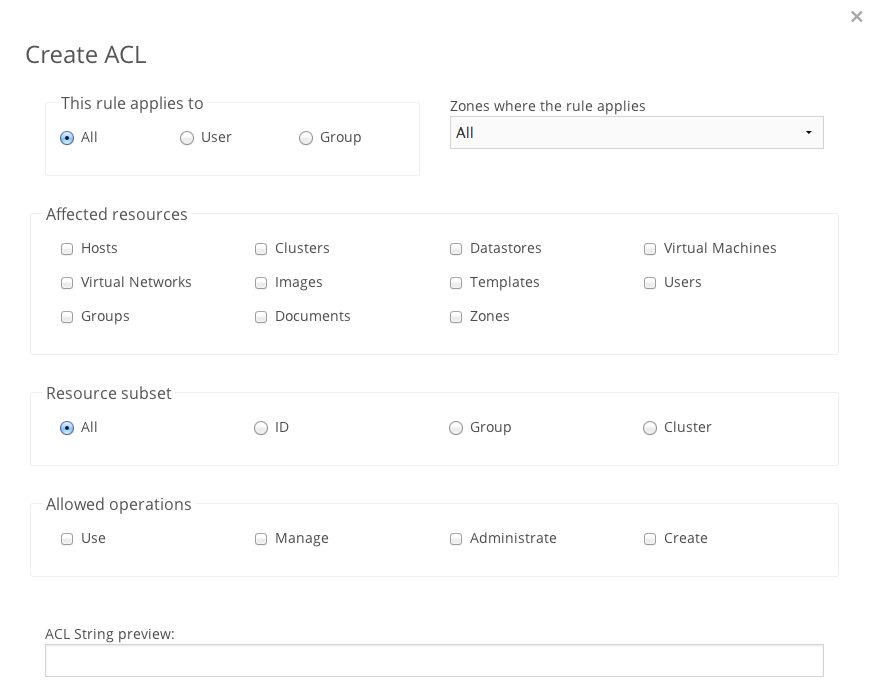
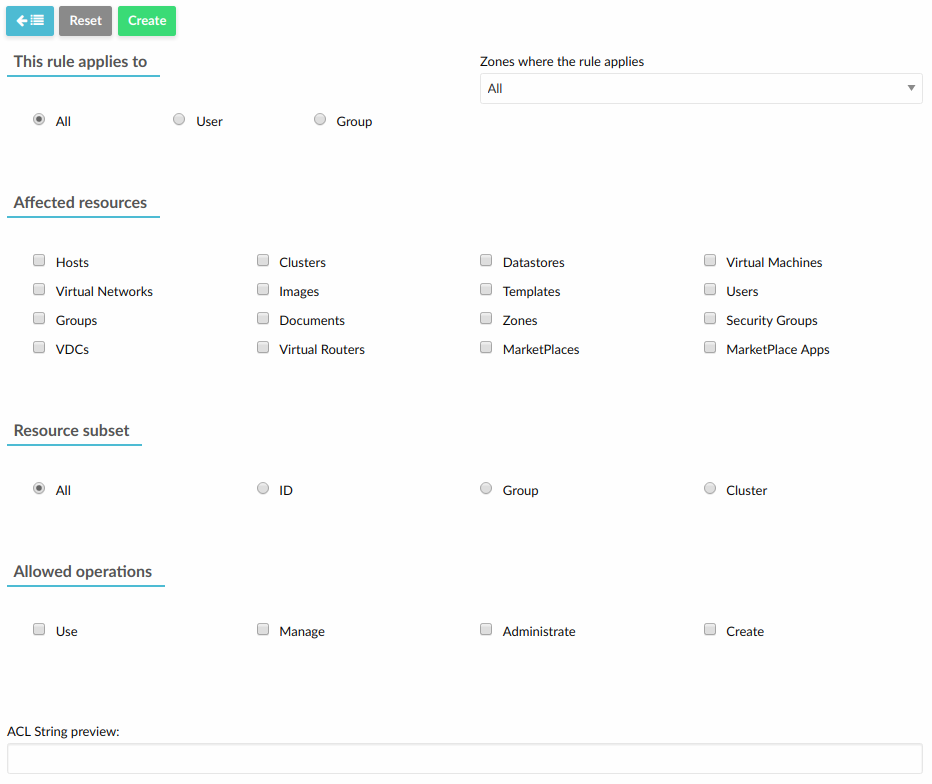
Update acl and vdc info to 5.0

diff --git a/source/operation/users_groups_management/chmod.rst b/source/operation/users_groups_management/chmod.rst
@@ -194,31 +194,28 @@ The ACL rules are managed using the :ref:`oneacl command <cli>`. The 'oneacl lis
 .. code::
 
     $ oneacl list
-       ID     USER RES_VHNIUTGDCOZS   RID OPE_UMAC  ZONE
-        0       @1     V-NI-T---O--     *     ---c    #0
-        1        *     ----------Z-     *     u---     *
-        2       @1     -H----------     *     -m--    #0
-        3       @1     --N----D----     *     u---    #0
-        4       #5     --NI-T------  @104     u---    #0
-        5     @106     ---I--------   #31     u---    #0
+       ID     USER RES_VHNIUTGDCOZSvRMA   RID OPE_UMAC  ZONE
+        0       @1     V--I-T---O-S----     *     ---c     *
+        1        *     ----------Z-----     *     u---     *
+        2        *     --------------MA     *     u---     *
+        3       @1     -H--------------     *     -m--    #0
+        4       @1     --N----D--------     *     u---    #0
+        5     @106     ---I------------   #31     u---    #0
 
 The rules shown correspond to the following ones:
 
 .. code::
 
-    @1      VM+NET+IMAGE+TEMPLATE+DOCUMENT/*    CREATE  #0
-    *       ZONE/*                              USE     *
-    @1      HOST/*                              MANAGE  #0
-    @1      NET+DATASTORE/*                     USE     #0
-    #5      NET+IMAGE+TEMPLATE/@104             USE     #0
-    @106    IMAGE/#31                           USE     #0
+    @1      VM+IMAGE+TEMPLATE+DOCUMENT+SECGROUP/*   CREATE  *
+    *       ZONE/*                                  USE     *
+    *       MARKETPLACE+MARKETPLACEAPP/*            USE     *
+    @1      HOST/*                                  MANAGE  #0
+    @1      NET+DATASTORE/*                         USE     #0
+    @106    IMAGE/#31                               USE     #0
 
-The first four were created on bootstrap by OpenNebula, and the last two were created using oneacl:
+The first five were created on bootstrap by OpenNebula, and the last one was created using oneacl:
 
 .. code::
-
-    $ oneacl create "#5 NET+IMAGE+TEMPLATE/@104 USE"
-    ID: 4
 
     $ oneacl create "@106 IMAGE/#31 USE"
     ID: 5
@@ -241,6 +238,10 @@ The **Resources** column lists the existing Resource types initials. Each rule f
 -  ``O : DOCUMENT``
 -  ``Z : ZONE``
 -  ``S : SECURITY GROUP``
+-  ``v : VDC``
+-  ``R : VROUTER``
+-  ``M : MARKETPLACE``
+-  ``A : MARKETPLACEAPP``
 
 **RID** stands for Resource ID, it can be an individual object (#), group (@) or cluster (%) id; or all (\*) objects.
 

diff --git a/source/operation/users_groups_management/manage_vdcs.rst b/source/operation/users_groups_management/manage_vdcs.rst
@@ -104,7 +104,7 @@ Using the previous scenario as an example, the Cloud Admin can add the Group Web
 Create Super-Clusters
 --------------------------------------------------------------------------------
 
-A VDC can have more than one physical resource of each type (Cluster, Hosts, VNets, Datastores), and a physical resource can be in more than one VDC. In contrast, a Host, VNet or Datastore can be part of only one Cluster. This means that you can decide to create a VDC that encompasses resources that may not be part of the same physical Cluster.
+A VDC can have more than one physical resource of each type (Cluster, Hosts, VNets, Datastores), and a physical resource can be in more than one VDC. In contrast a Host can be part of only one Cluster. This means that you can decide to create a VDC that encompasses resources that may not be part of the same physical Cluster.
 
 For example, a VDC called 'high-performance' may contain Hosts from two incompatible Clusters, let's say 'kvm-ceph' and 'kvm-qcow2'. These Hosts may be part of the same VDC, but from the deployment point of view, the important factor is their Cluster. The scheduler will decide the deployment target based on each Host's Cluster, and this guarantees that the VMs are always deployed in a compatible Host.
 
